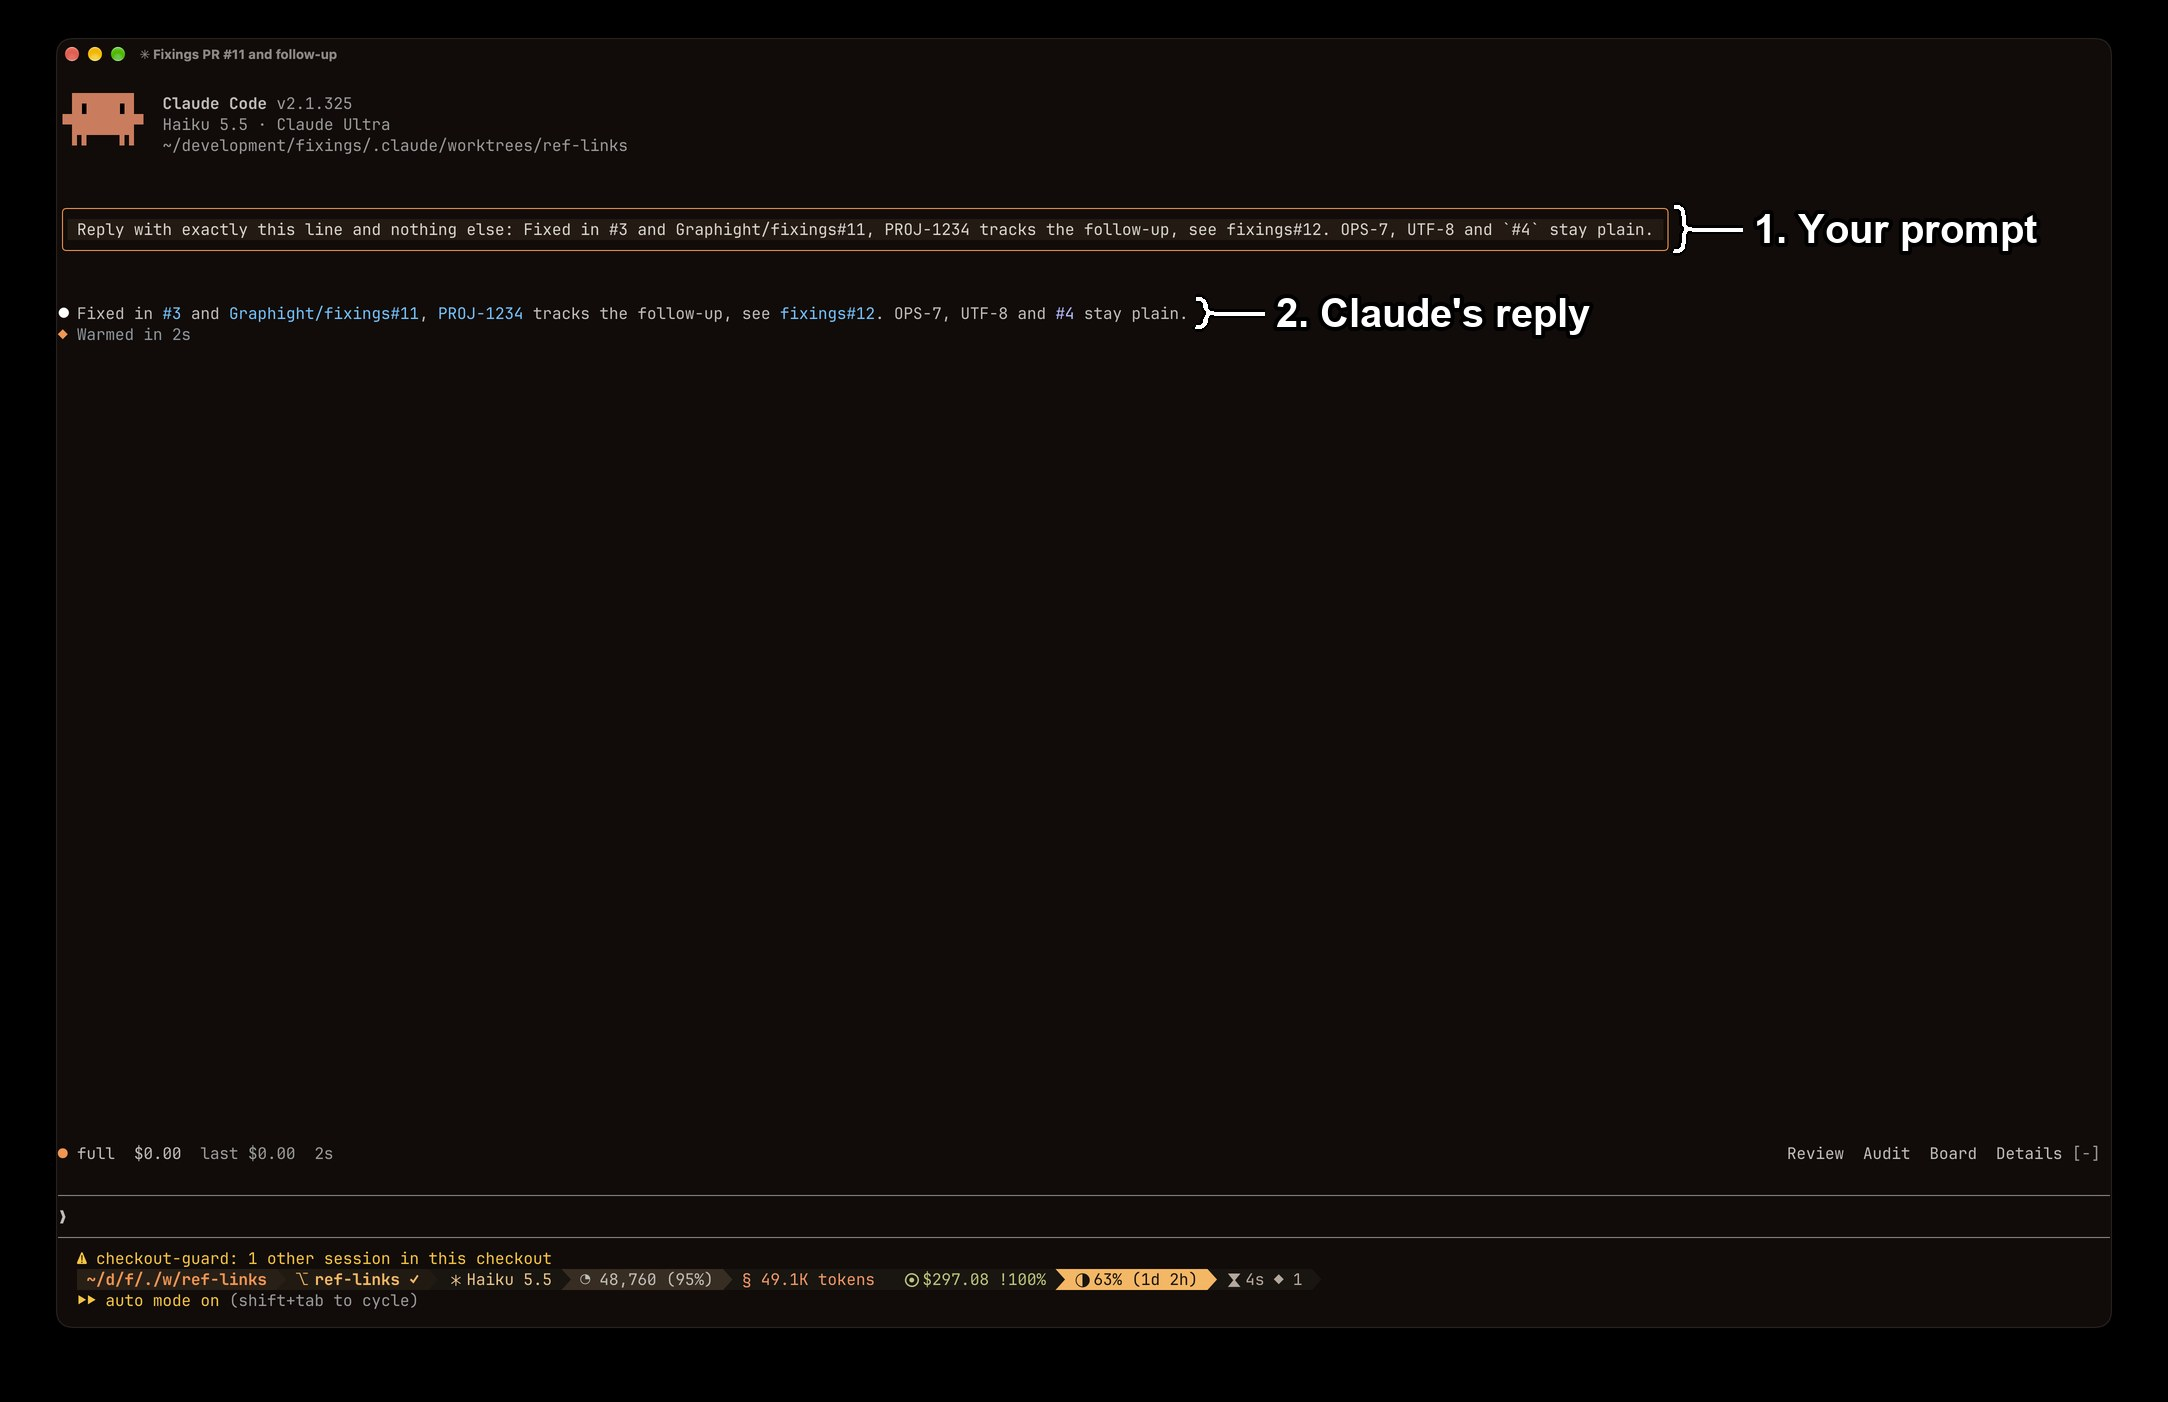
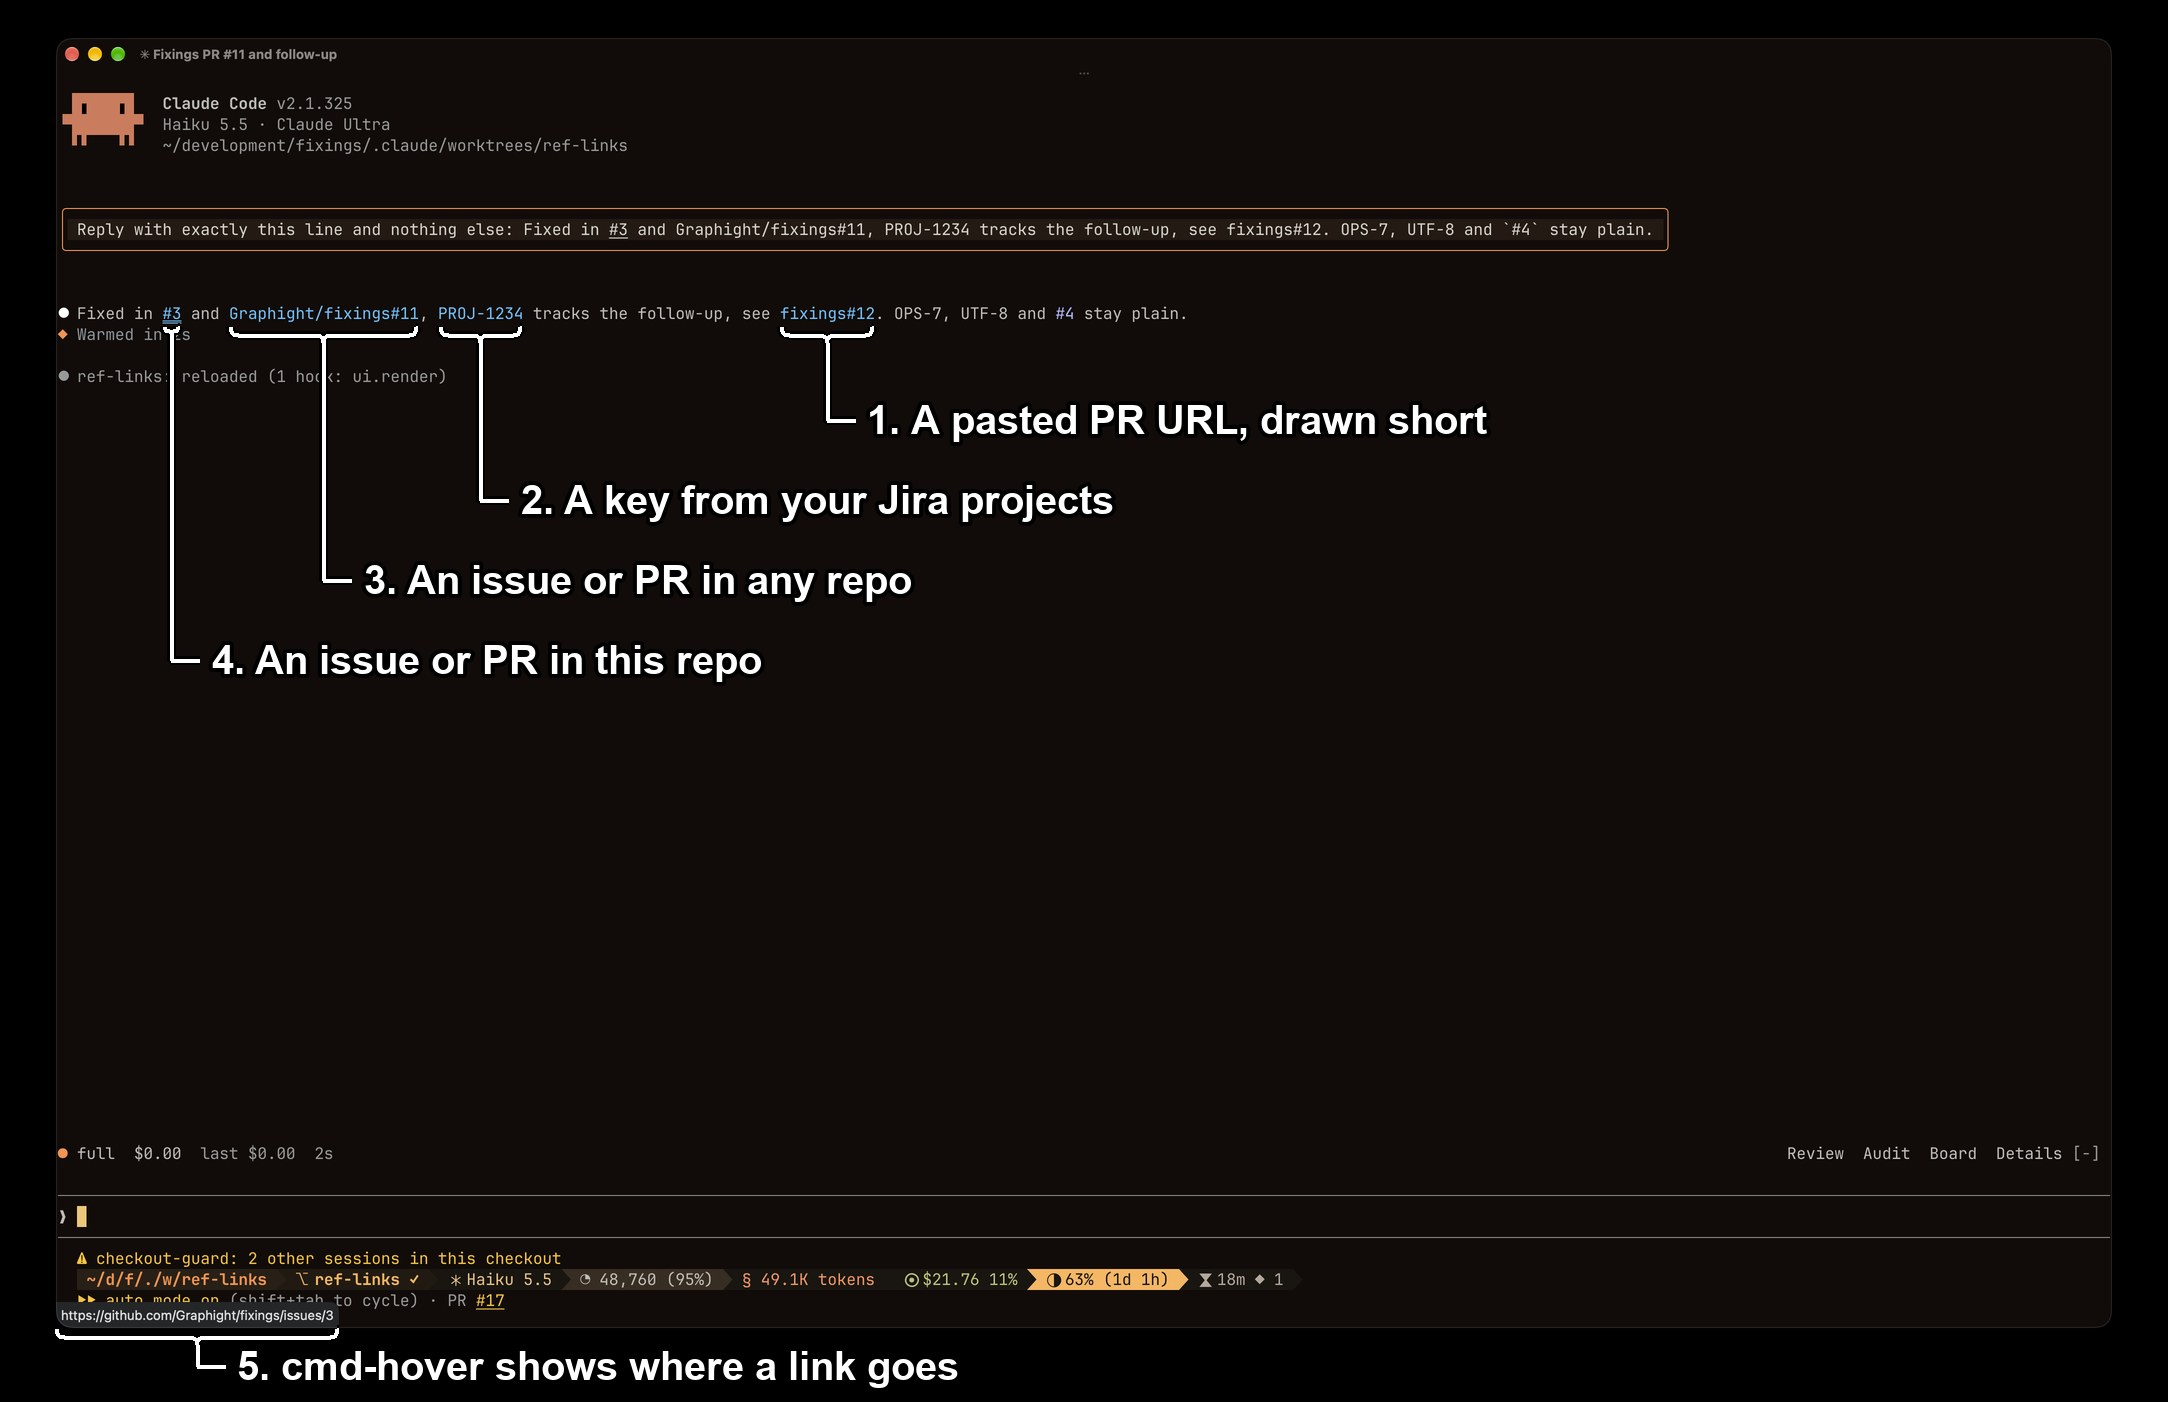
docs: point the ref-links screenshot at each kind of link

diff --git a/plugins/ref-links/README.md b/plugins/ref-links/README.md
@@ -5,14 +5,16 @@ Install it with `/plugin install ref-links@fixings`.
 
 ## What you're looking at
 
-![A prompt and a reply, both carrying links, numbered](../../docs/screenshots/ref-links-annotated.jpg)
+![A reply with four kinds of link, each numbered, and the target of the hovered one](../../docs/screenshots/ref-links-annotated.jpg)
 
-1. **Your prompt**, drawn by `prompt-tint`.
-   `#3`, `Graphight/fixings#11` and `PROJ-1234` are links, and the full pull request URL you typed is drawn as `fixings#12`.
-   They carry no colour of their own, so in Ghostty they show only when you hover with cmd held.
-2. **Claude's reply.**
-   The same four references, drawn as blue links.
-   `OPS-7` is not in `projects`, `UTF-8` is not a ticket, and the `` `#4` `` inside a code span stays as written.
+1. **A pasted PR URL, drawn short.**
+   `https://github.com/Graphight/fixings/pull/12` became `fixings#12`.
+2. **A key from your Jira projects**, linked under your `jiraUrl`.
+   `OPS-7` is not in `projects`, so it stays plain, as do `UTF-8` and the `` `#4` `` in a code span.
+3. **An issue or PR in any repo**, written `owner/repo#N`.
+4. **An issue or PR in this repo**, written `#N`.
+   With cmd held over it, Ghostty underlines it here and in the prompt above, where `prompt-tint` draws it.
+5. **cmd-hover shows where a link goes**, here `https://github.com/Graphight/fixings/issues/3`.
 
 ## What it links
 
